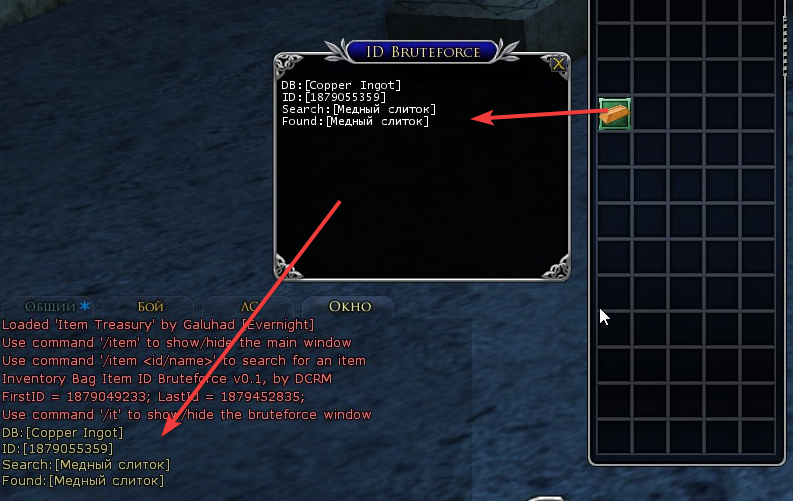
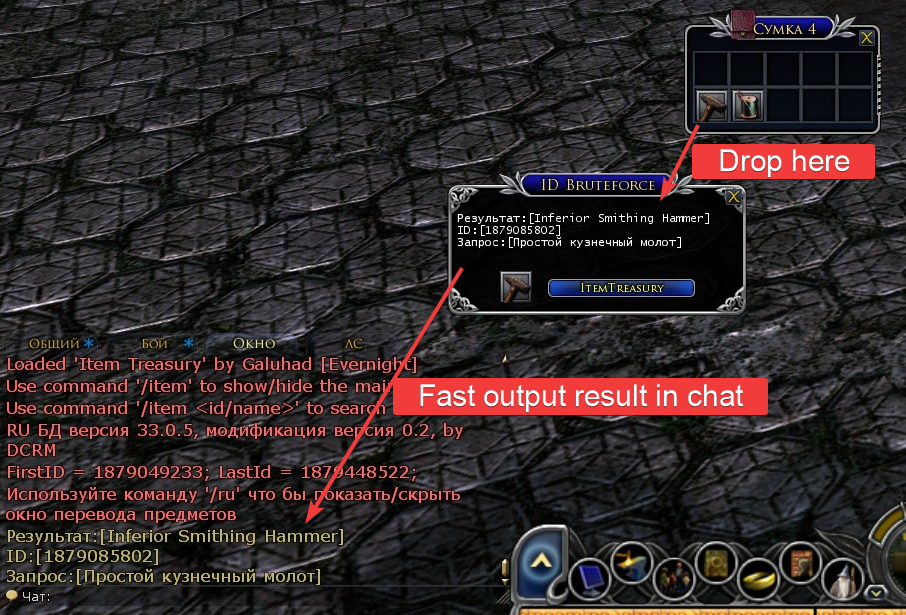
Поиск по БД

diff --git a/README.md b/README.md
@@ -1,4 +1,4 @@
-# Add bruteforce item id window into [item-treasury](http://www.lotrointerface.com/downloads/info870) LOTRO
+# Быстрый поиск оригинального предмета для RU LOTRO [item-treasury](http://www.lotrointerface.com/downloads/info870)
 
 Command to open Bruteforce window `/ru`
 
@@ -24,4 +24,16 @@ add
 LoadBruteforceMod();
 ```
 
-3. Don't forget the file :) [BruteforceMod.lua](/GaluhadPlugins/ItemTreasury/BruteforceMod.lua) and [RuItems.lua](/GaluhadPlugins/ItemTreasury/RuItems.lua)
+3. [Windows/MainWin.lua:391](/GaluhadPlugins/ItemTreasury/Windows/MainWin.lua#L391) replace
+`string.gmatch(searchStr, "%a+")`
+```
+string.gmatch(searchStr, "%S+")
+
+```
+4. [Windows/MainWin.lua:438](/GaluhadPlugins/ItemTreasury/Windows/MainWin.lua#L438) replace
+`nameMatch = match;`
+```
+nameMatch = BruteforceSearch(k, searchName, match);
+```
+
+5. Don't forget the file :) [BruteforceMod.lua](/GaluhadPlugins/ItemTreasury/BruteforceMod.lua) and [RuItems.lua](/GaluhadPlugins/ItemTreasury/RuItems.lua)
